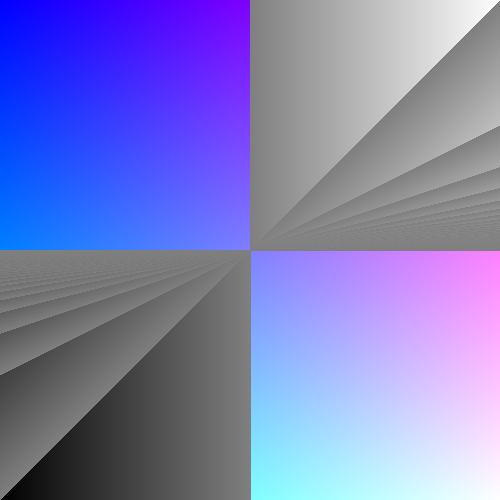
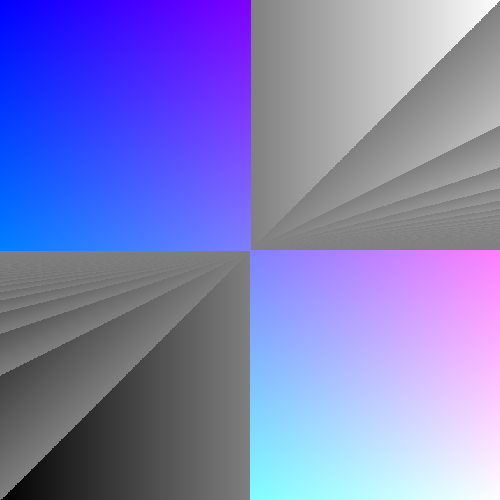
feat: getting the node ready for AST

Changed region(s): [[0.48, 0.48, 0.51, 0.51]]

diff --git a/src/main.c b/src/main.c
@@ -8,6 +8,39 @@
 #define WIDTH 500
 #define HEIGHT 500
 
+typedef enum {
+    NK_X,
+    NK_Y,
+    NK_NUMBER,
+    NK_ADD,
+    NK_MUL,
+    NK_TRIPLE
+} Node_Kind;
+
+typedef struct Node Node;
+
+typedef struct {
+    Node* lhs;
+    Node* rhs;
+} Node_BinaryOperation;
+
+typedef struct {
+    Node* first;
+    Node* second;
+    Node* third;
+} Node_Triple;
+
+typedef union {
+    float number;
+    Node_BinaryOperation binary_operation;
+    Node_Triple triple;
+} Node_As;
+
+struct Node {
+    Node_Kind kind;
+    Node_As as;
+};
+
 typedef struct {
     uint8_t r;
     uint8_t g;
@@ -44,10 +77,10 @@ void render_pixels(Color (*f)(Vector2)) {
 }
 
 Color another_generator(Vector2 vector2) {
-    if (vector2.x * vector2.y > 0) {
+    if (vector2.x * vector2.y >= 0) {
         return (Color) {vector2.x, vector2.y, 1};
     }
-    float r = fmod(vector2.x + 1e-4, vector2.y + 1e-4);
+    float r = fmod(vector2.x, vector2.y);
     return (Color) {r, r, r};
 }
 
